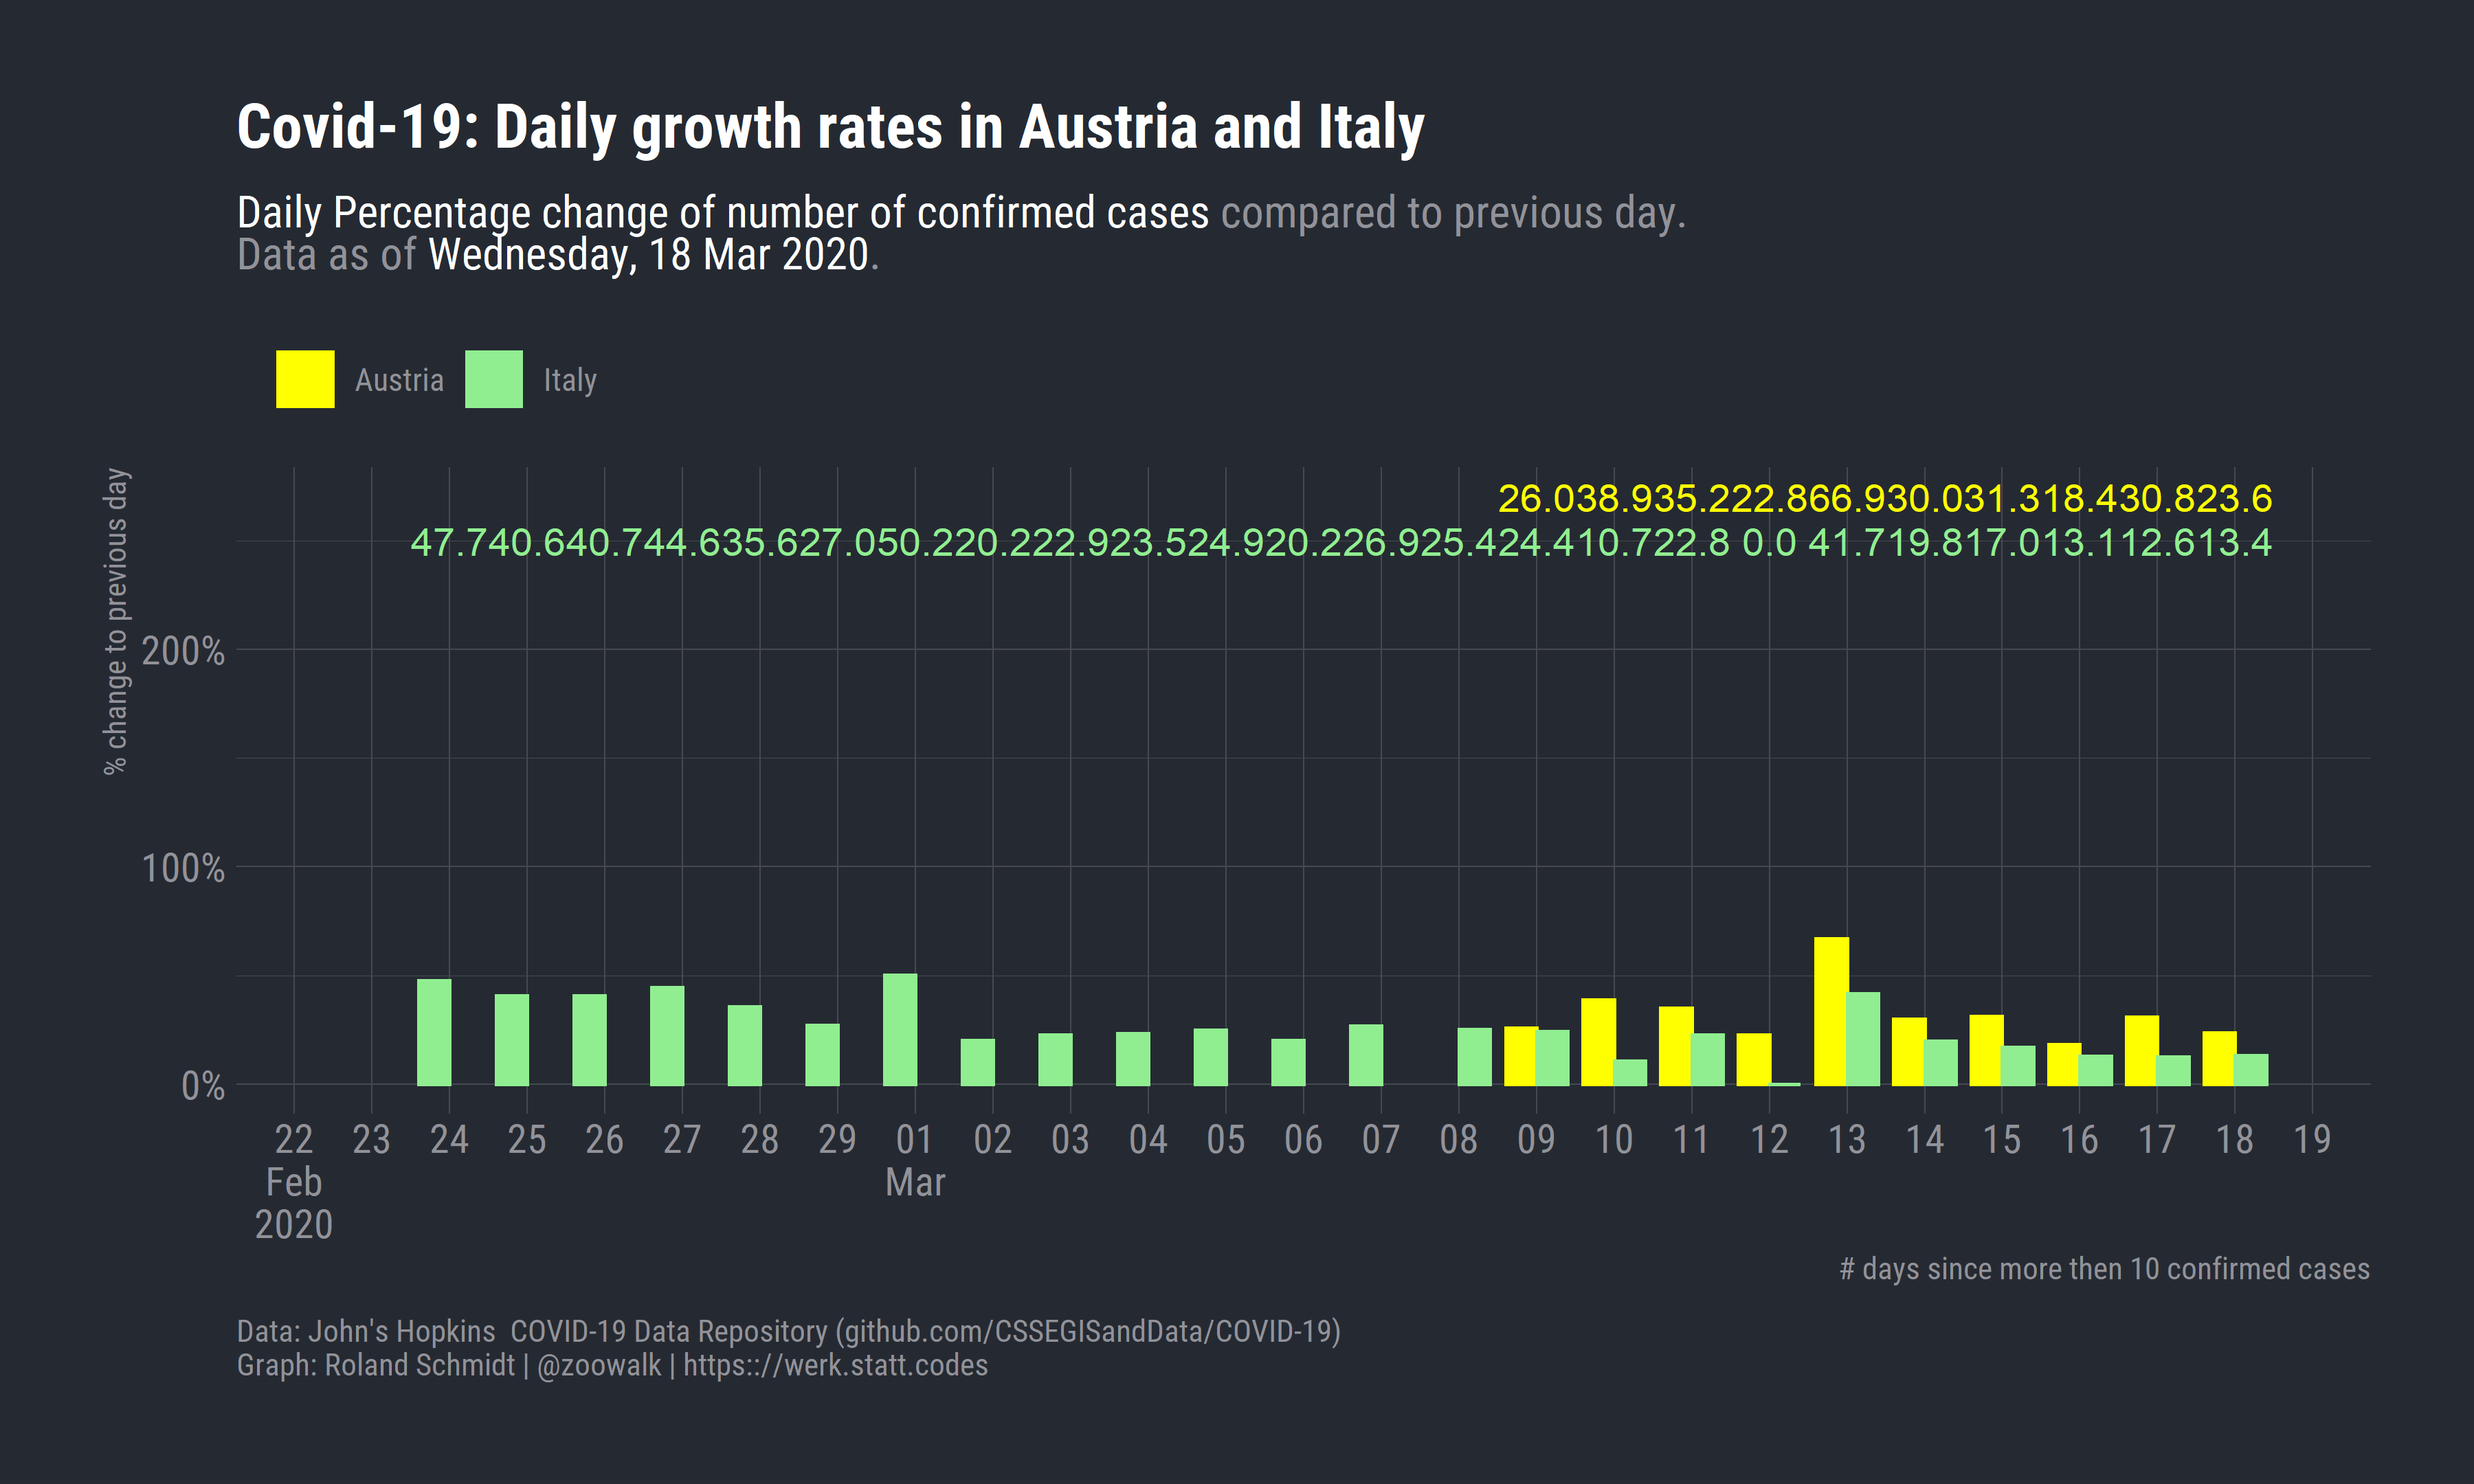
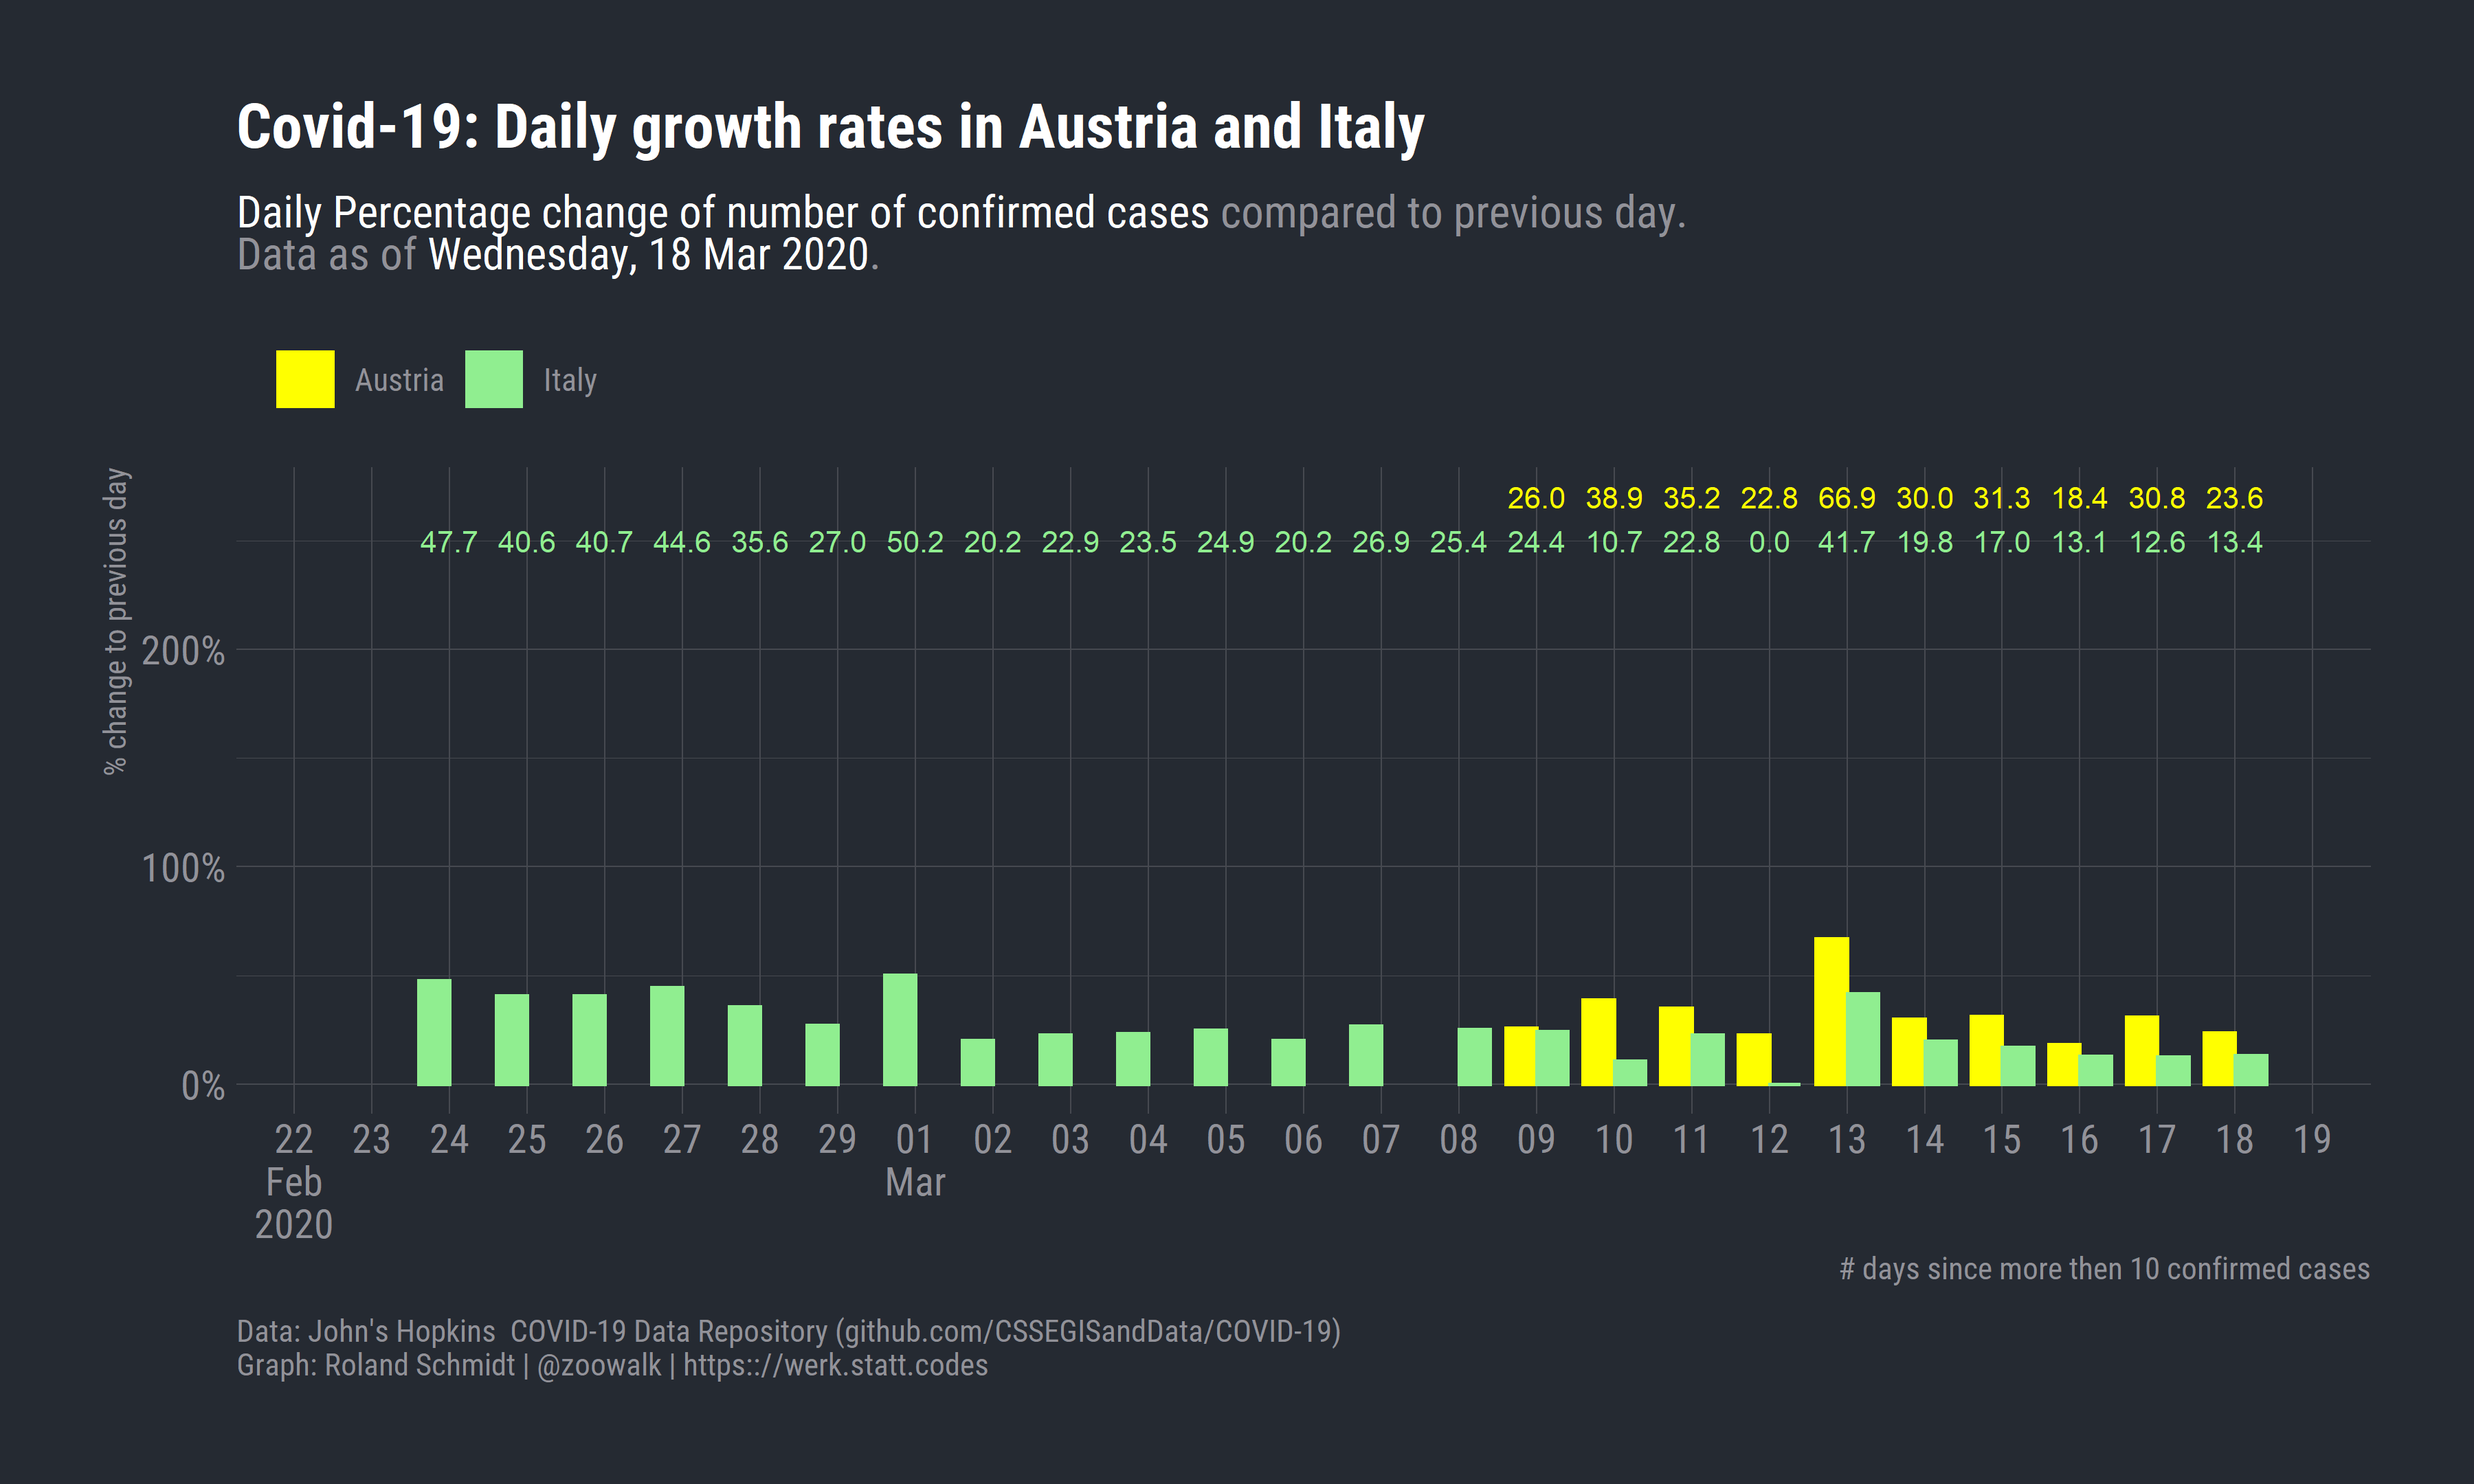
update 19_03

Changed region(s): [[0.1556, 0.3102, 0.9333, 0.3722]]

diff --git a/content/post/2020-03-11-covid-19-corona-virus-quick-look-at-some-data.html b/content/post/2020-03-11-covid-19-corona-virus-quick-look-at-some-data.html
@@ -414,7 +414,7 @@ pl_growth &lt;- df_corona_long %&gt;%
                 color=country_region,
                 fill=country_region),
             position=position_dodge(width=1),
-            size=4,
+            size=3,
             hjust=.5)+
       geom_text(data=. %&gt;%  filter(country_region==&quot;Austria&quot;),
               aes(x=date,
@@ -426,7 +426,7 @@ pl_growth &lt;- df_corona_long %&gt;%
                 color=country_region,
                 fill=country_region),
             position=position_dodge(width=1),
-            size=4,
+            size=3,
             hjust=.5)+
   scale_y_continuous(labels=scales::label_percent(scale=100))+
   scale_fill_manual(values=country_color)+
@@ -502,8 +502,8 @@ pl_growth_index &lt;- df_corona_long %&gt;%
                 color=country_region,
                 fill=country_region),
             position=position_dodge(width=1),
-            size=4,
-            hjust=.5)+
+            size=3,
+            hjust=0)+
       geom_text(data=. %&gt;%  filter(country_region==&quot;Austria&quot;),
               aes(x=day_index,
                 y=2.7,
@@ -514,7 +514,7 @@ pl_growth_index &lt;- df_corona_long %&gt;%
                 color=country_region,
                 fill=country_region),
             position=position_dodge(width=1),
-            size=4,
+            size=3,
             hjust=0)+
   
   scale_y_continuous(labels=scales::label_percent(scale=100))+
@@ -638,8 +638,8 @@ pl_test_results_accum &lt;- df_combined_clean_x %&gt;%
        caption=my_caption)+
   geom_bar(aes(x=date_d,
                y=value,
-               color=NULL,
                fill=var),
+           color=NA,
            stat=&quot;identity&quot;)+
   geom_text(data=. %&gt;% 
               group_by(date_d) %&gt;% 
